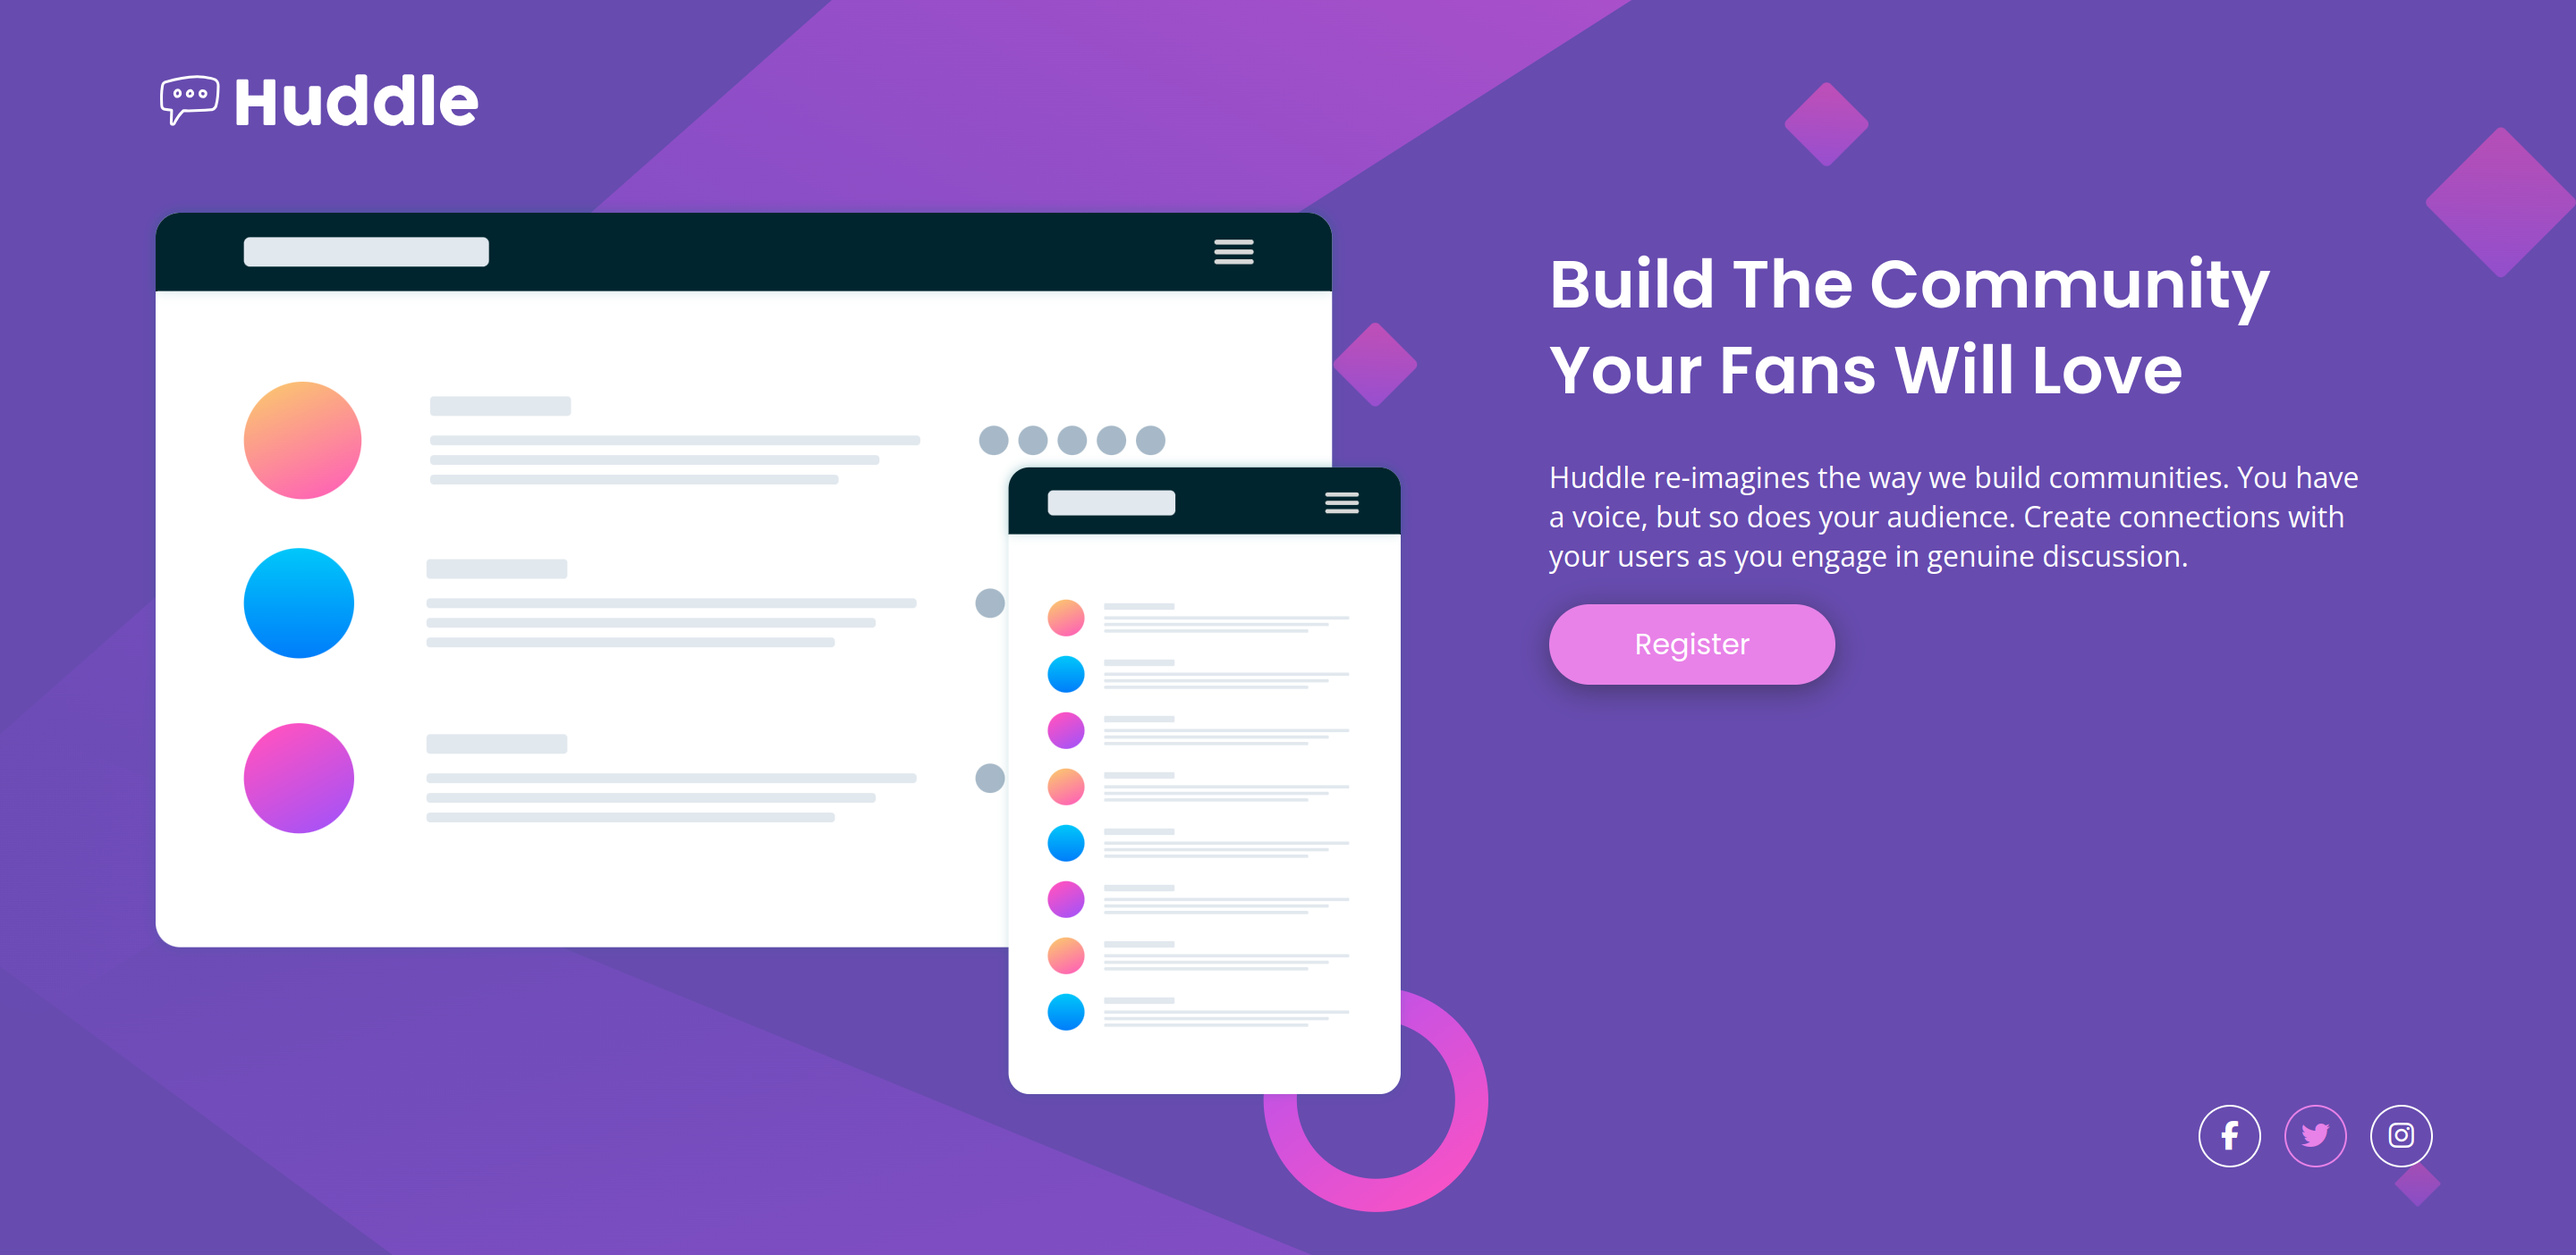
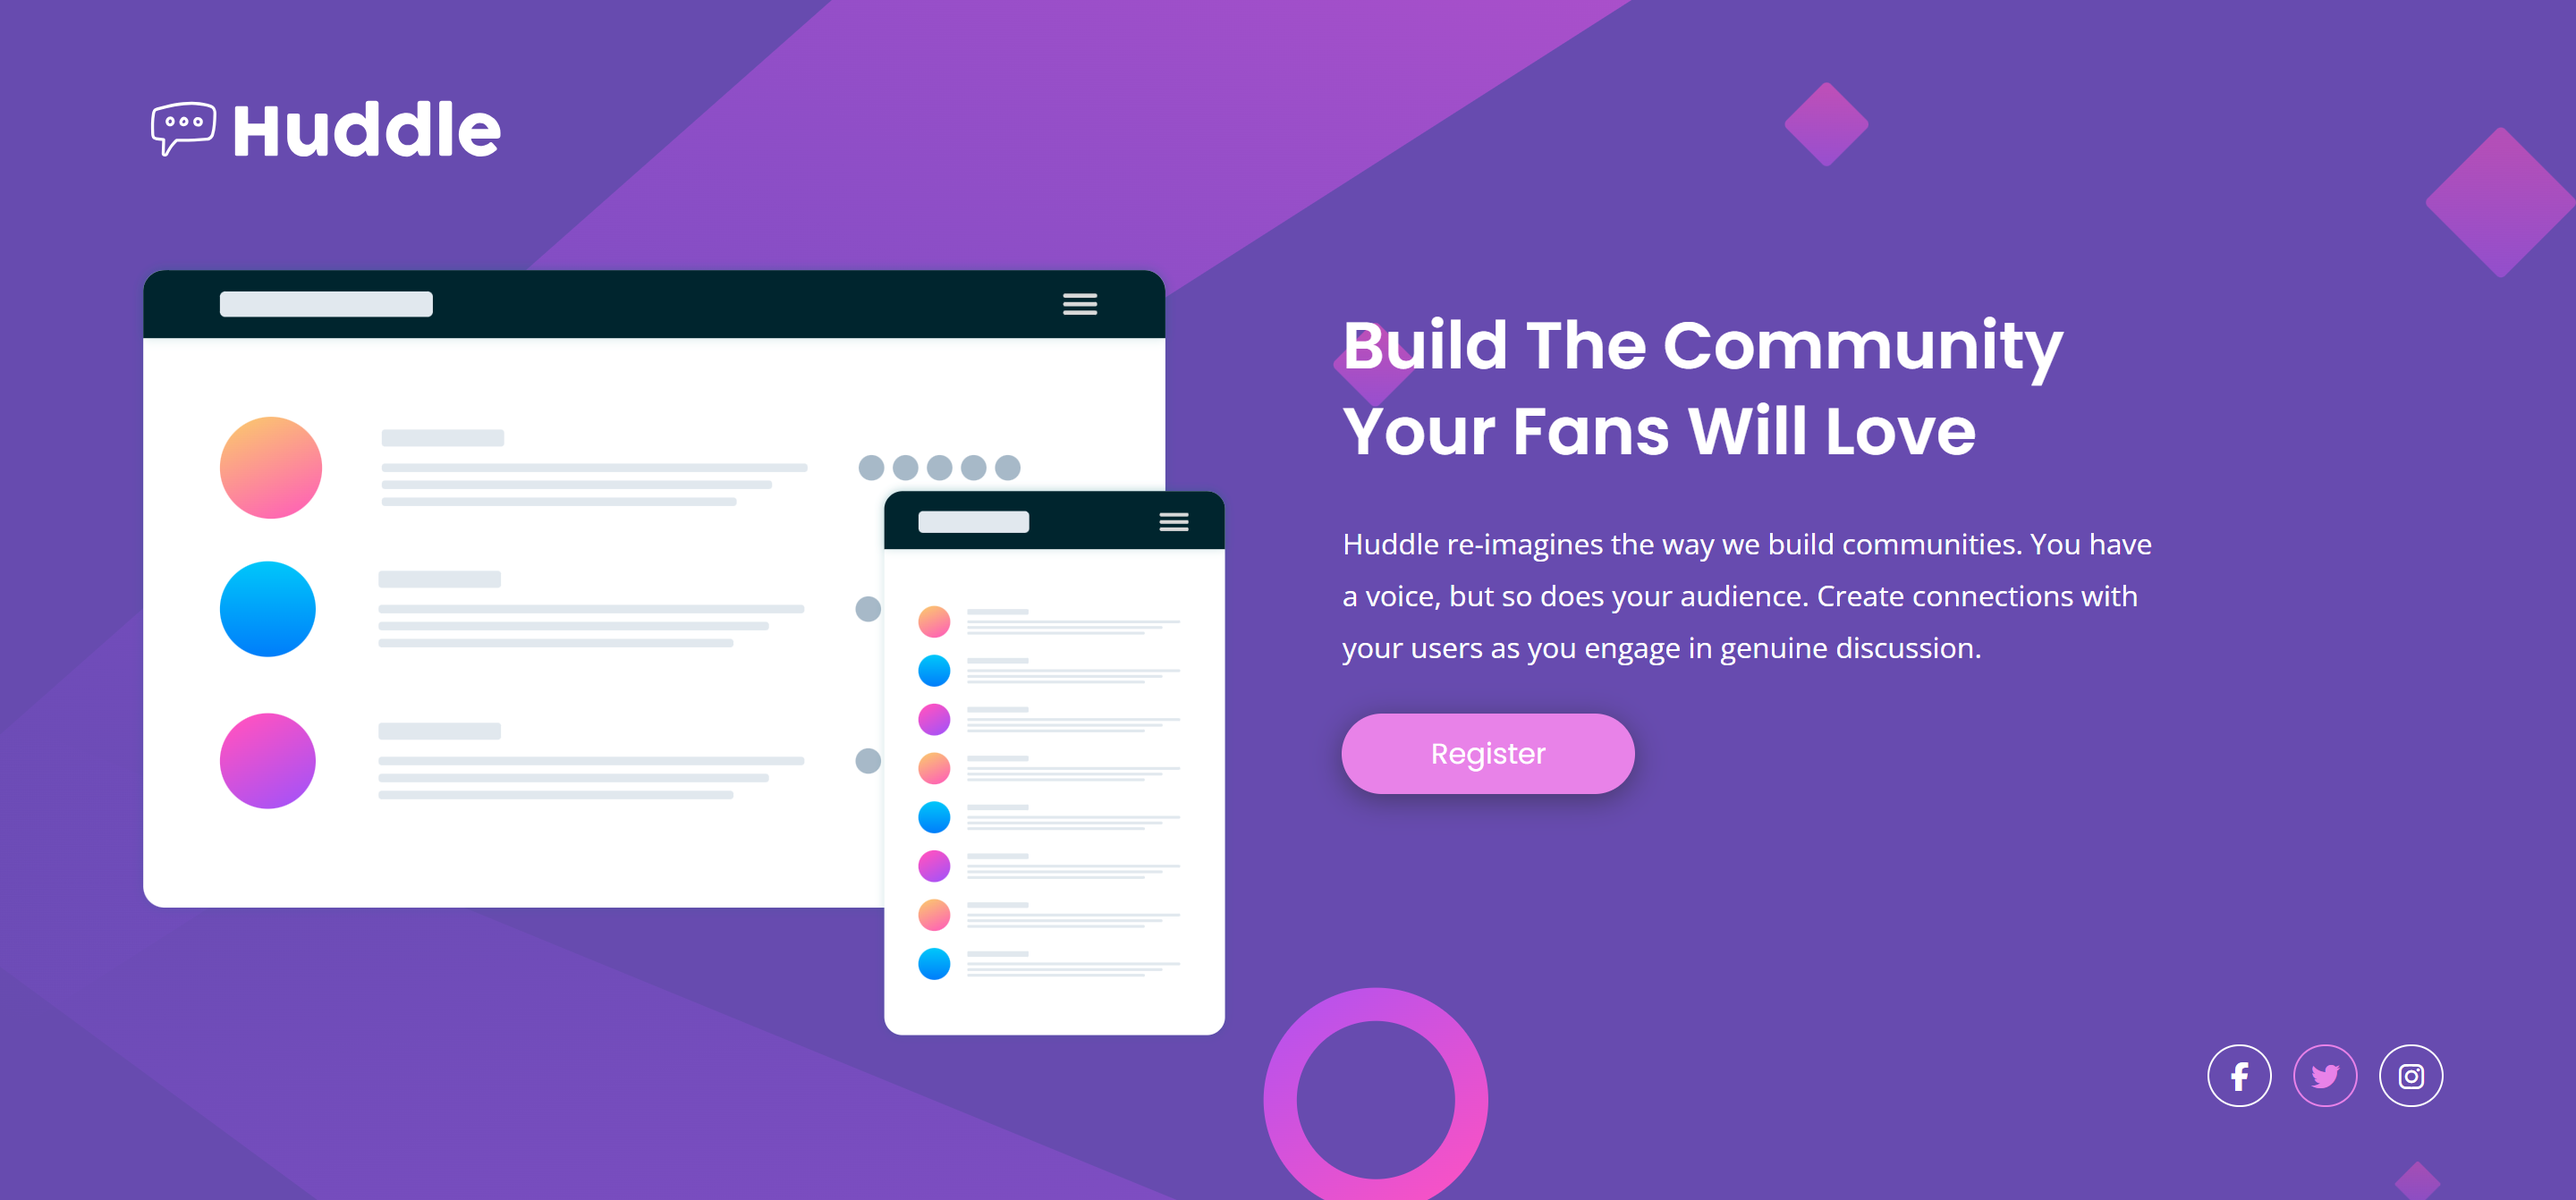
style(css): update visual styles and screenshots

diff --git a/src/css/style.css b/src/css/style.css
@@ -44,7 +44,16 @@ a {
 }
 
 .main-header {
-  margin-block-end: 2rem;
+  margin-block-end: 2.92rem;
+}
+
+.main-logo {
+  max-width: 9rem;
+}
+
+.main-grid {
+  display: grid;
+  gap: 2.2rem;
 }
 
 .main-info {
@@ -60,14 +69,15 @@ a {
   line-height: 1.3;
 }
 
-.main-logo {
-  max-width: 9rem;
+.main-copy {
+  margin-block-end: 1.4rem;
+  line-height: 1.8;
 }
 
 .main-btn {
   display: inline-block;
-  padding-block: .60rem;
-  padding-inline: 5rem;
+  padding-block: .80rem;
+  padding-inline: 6rem;
   background-color: var(--clr-primary-white);
   border-radius: 2rem;
   color: var(--clr-primary-violet);
@@ -119,18 +129,17 @@ a {
   }
 
   .main-container {
-    padding-block-start: 2rem;
-    padding-inline: 5rem;
+    padding-block-start: 2.9rem;
+    padding-inline: 4.65rem;
   }
 
   .main-logo {
-    max-width: 12rem;
+    max-width: 13.15rem;
   }
 
   .main-grid {
-    display: grid;
-    grid-template-columns: 1.5fr 1fr;
-    gap: 2.8rem;
+    grid-template-columns: 1fr 1fr;
+    gap: 3.8rem;
   }
 
   .main-info {
@@ -147,10 +156,14 @@ a {
   }
 
   .main-btn {
-    padding-inline: 3rem;
+    padding-inline: 3.10rem;
+    padding-block: .63rem;
   }
 
   .social {
     justify-content: end;
   }
 }
+
+
+

diff --git a/index.html b/index.html
@@ -27,7 +27,7 @@
         <img src="./src/images/logo.svg" alt="Huddle Brand Representative Logo" class="main-logo">
       </header>
       <main class="main-grid">
-        <img src="./src/images/illustration-mockups.svg" alt="Illustration of a user interface with two windows, one in the desktop version and one in the mobile version">
+        <img src="./src/images/illustration-mockups.svg" alt="Illustration of a user interface with two windows, one in the desktop version and one in the mobile version" class="main-grid__img">
         <div class="main-info">
           <h1 class="main-title"> Build The Community Your Fans Will Love </h1>
           <p class="main-copy">
